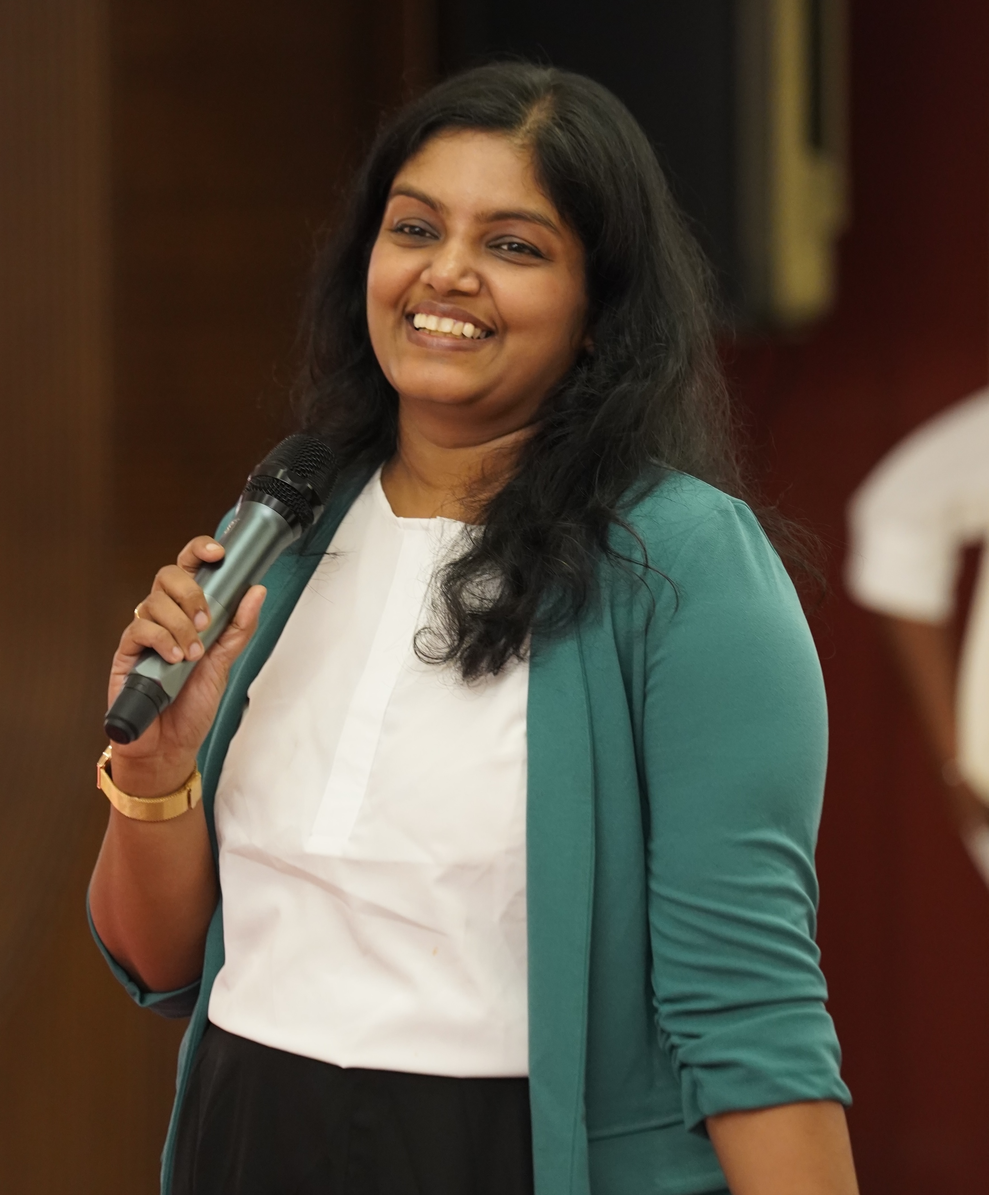
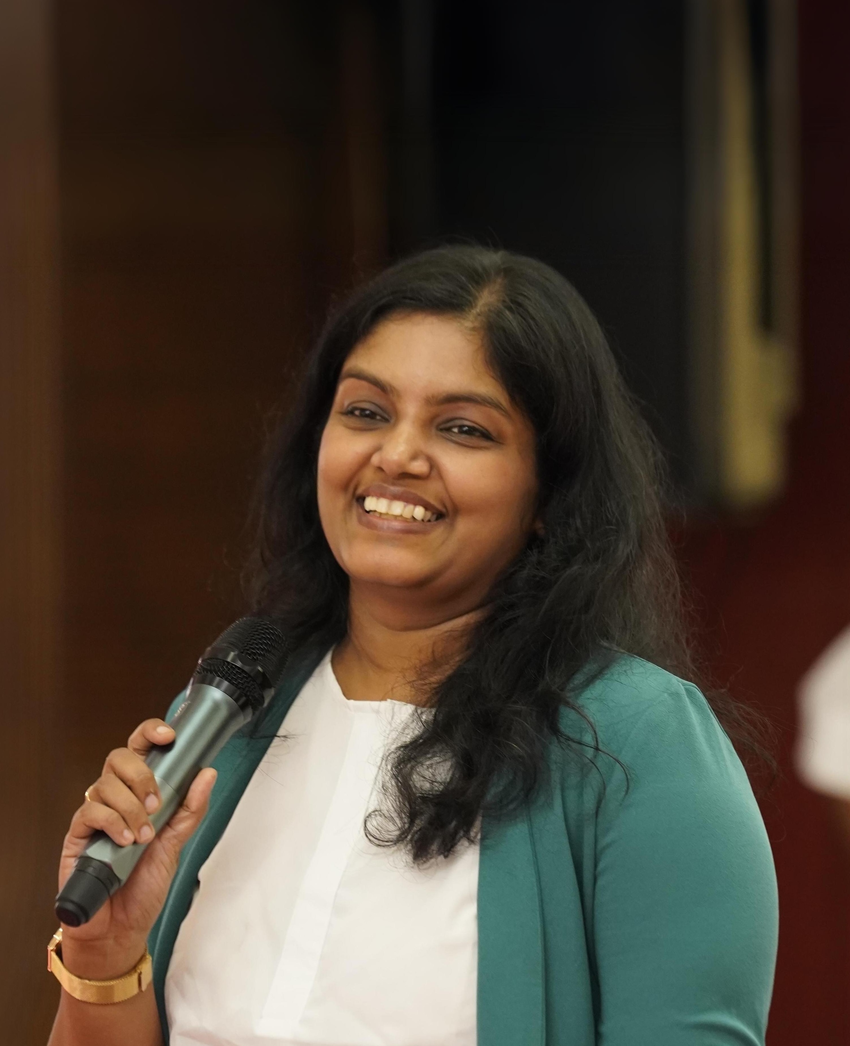
Edited all team images

diff --git a/index.html b/index.html
@@ -1507,7 +1507,7 @@
               </div>
               <div class="new-team-card">
                 <img
-                  src="./assets/img/team/Seenuvasan.JPG"
+                  src="./assets/img/team/seenuvasan.png"
                   alt="Member Three"
                   class="new-team-img"
                 />
@@ -1525,7 +1525,7 @@
               </div>
               <div class="new-team-card">
                 <img
-                  src="./assets/img/team/Akilan.PNG"
+                  src="./assets/img/team/Akilan.jpg"
                   alt="Member Five"
                   class="new-team-img"
                 />
@@ -1608,7 +1608,7 @@
               </div>
               <div class="new-team-card">
                 <img
-                  src="./assets/img/team/Seenuvasan.JPG"
+                  src="./assets/img/team/seenuvasan.png"
                   alt="Member Three"
                   class="new-team-img"
                 />
@@ -1626,7 +1626,7 @@
               </div>
               <div class="new-team-card">
                 <img
-                  src="./assets/img/team/Akilan.PNG"
+                  src="./assets/img/team/Akilan.jpg"
                   alt="Member Five"
                   class="new-team-img"
                 />
